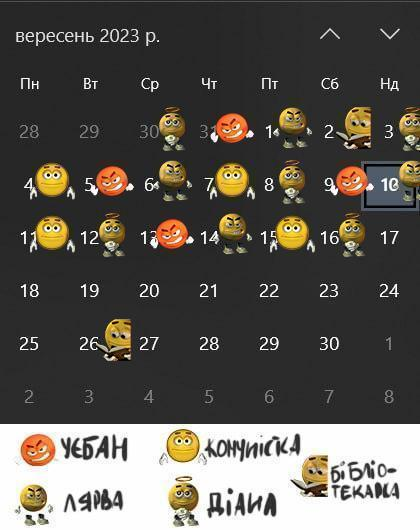
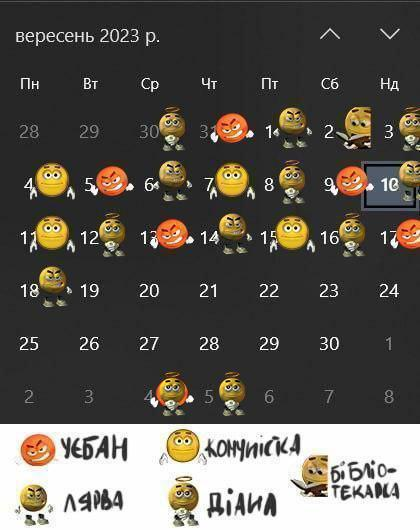
changed /update_vahta and /draw_vahta

diff --git a/core/handlers/draw_vahta.py b/core/handlers/draw_vahta.py
@@ -1,37 +1,133 @@
 from os import getenv
 from dotenv import load_dotenv
 
-from aiogram import types, Bot
-from aiogram.fsm.context import FSMContext
-from core.utils.statesdrawvahta import StatesDrawVahta
-
 from pillow_bot.helpers import pillow_draw
 
-
+from aiogram import F, Router
+from aiogram.filters import Command
+from aiogram.fsm.context import FSMContext
+from aiogram.fsm.state import State, StatesGroup
+from aiogram.types import (
+    KeyboardButton,
+    Message,
+    ReplyKeyboardMarkup,
+    ReplyKeyboardRemove,
+)
 
 load_dotenv()
 ADMIN_ID = getenv("ADMIN_ID")
 
+draw_vahta_router = Router()
 
-async def get_cell(message: types.Message, state: FSMContext):
+
+class StatesDrawVahta(StatesGroup):
+    GET_CHAR = State()
+    GET_ROW = State()
+    GET_COLUMN = State()
+
+
+@draw_vahta_router.message(Command("draw_vahta"))
+async def command_start(message: Message, state: FSMContext) -> None:
     if message.from_user.id == int(ADMIN_ID):
-        await message.answer("Choose a char from\n biblio, commie, diana, eblan, lyarva")
         await state.set_state(StatesDrawVahta.GET_CHAR)
+        await message.answer(
+            "Pick a characher or type /cancel to cancel.",
+                reply_markup=ReplyKeyboardMarkup(
+                keyboard=[
+                    [
+                        KeyboardButton(text="biblio"),
+                        KeyboardButton(text="commie"),
+                        KeyboardButton(text="diana"),
+                        KeyboardButton(text="eblan"),
+                        KeyboardButton(text="lyarva"),
+                    ]
+                ],
+                resize_keyboard=True,
+            ),
+        )
     else:
-         await message.answer("You are not authorized.")
+        await message.answer("You are not authorized.")
 
-async def get_char(message: types.Message, state: FSMContext):
-    await message.answer(f"Great. Char: {message.text}\n Now choose a row:")
-    await state.update_data(char=message.text)
+
+@draw_vahta_router.message(Command("cancel"))
+@draw_vahta_router.message(F.text.casefold() == "cancel")
+async def cancel_handler(message: Message, state: FSMContext) -> None:
+    """
+    Allow user to cancel any action
+    """
+    current_state = await state.get_state()
+    if current_state is None:
+        return
+
+    await state.clear()
+    await message.answer(
+        "/draw_vahta is cancelled.",
+        reply_markup=ReplyKeyboardRemove(),
+    )
+
+chars = ("biblio", "commie", "diana", "eblan", "lyarva")
+@draw_vahta_router.message(StatesDrawVahta.GET_CHAR, F.text.casefold().in_(chars))
+async def process_chars(message: Message, state: FSMContext) -> None:
     await state.set_state(StatesDrawVahta.GET_ROW)
+    await state.update_data(char=message.text)
+    await message.answer(
+        f"OK, you picked {message.text}. Now choose a row:",
+        reply_markup=ReplyKeyboardMarkup(
+            keyboard=[
+                [
+                    KeyboardButton(text="1"),
+                    KeyboardButton(text="2"),
+                    KeyboardButton(text="3"),
+                    KeyboardButton(text="4"),
+                    KeyboardButton(text="5"),
+                    KeyboardButton(text="6"),
+                ]
+            ],
+            resize_keyboard=True,
+        ),
+    )
 
-async def get_row(message: types.Message, state: FSMContext):
-     await message.answer(f"OK. Row: {message.text}\nNow choose a column:")
-     await state.update_data(row=message.text)
-     await state.set_state(StatesDrawVahta.GET_COLUMN)
+
+@draw_vahta_router.message(StatesDrawVahta.GET_CHAR)
+async def process_unknown_char(message: Message) -> None:
+    await message.reply("WTF is that?! Choose from options below or type /cancel")
+
+
+rows = ("1", "2", "3", "4", "5", "6")
+@draw_vahta_router.message(StatesDrawVahta.GET_ROW, F.text.in_(rows))
+async def process_row(message: Message, state: FSMContext) -> None:
+    await state.set_state(StatesDrawVahta.GET_COLUMN)
+    await state.update_data(row=message.text)
+    await message.answer(
+        f"OK, you picked {message.text} row. Now choose a column:",
+        reply_markup=ReplyKeyboardMarkup(
+            keyboard=[
+                [
+                    KeyboardButton(text="1"),
+                    KeyboardButton(text="2"),
+                    KeyboardButton(text="3"),
+                    KeyboardButton(text="4"),
+                    KeyboardButton(text="5"),
+                    KeyboardButton(text="6"),
+                    KeyboardButton(text="7")
+                ]
+            ],
+            resize_keyboard=True,
+        ),
+    )
+
+@draw_vahta_router.message(StatesDrawVahta.GET_ROW)
+async def process_unknown_row(message: Message) -> None:
+    await message.reply("WTF is that?! Choose from options below or type /cancel")
+
+columns = ("1", "2", "3", "4", "5", "6", "7")
+@draw_vahta_router.message(StatesDrawVahta.GET_COLUMN, F.text.in_(columns))
+async def process_row(message: Message, state: FSMContext) -> None:
+    await message.answer(
+        f"OK, you picked {message.text} column. Drawing..",
+        reply_markup=ReplyKeyboardRemove()
+        )
     
-async def draw(message: types.Message, state: FSMContext):
-    await message.answer(f"Got it. Column: {message.text}")
     context_data = await state.get_data()
     char = context_data.get("char")
     row = int(context_data.get("row"))
@@ -39,4 +135,11 @@ async def draw(message: types.Message, state: FSMContext):
     await pillow_draw(char, row, column)
     await message.answer("Done. Use /vahta to check")
     await state.clear()
+
+
+
+@draw_vahta_router.message(StatesDrawVahta.GET_COLUMN)
+async def process_unknown_column(message: Message) -> None:
+    await message.reply("WTF is that?! Choose from options below or type /cancel")
+
 

diff --git a/main.py b/main.py
@@ -17,10 +17,11 @@ from core.handlers.start import start_router
 from core.handlers.alerts import alerts_router
 from core.handlers.faq import faq_router
 from core.handlers.vahta import vahta_router
-from core.handlers.cmd_stickers import bunt_sticker_router
-from core.handlers import update_vahta, draw_vahta, msg_echo
+from core.handlers.draw_vahta import draw_vahta_router
+from core.handlers.cmd_stickers import bunt_sticker_router, rusoriz_sticker_router
+from core.handlers import update_vahta, msg_echo
 from core.utils.statesvahta import StatesVahta
-from core.utils.statesdrawvahta import StatesDrawVahta
+# from core.utils.statesdrawvahta import StatesDrawVahta
 from core.utils.statesmsgecho import StatesMsgEcho
 
 
@@ -56,10 +57,10 @@ def main() -> None:
     dp.message.register(update_vahta.get_photo, Command(commands="update_vahta"))
     dp.message.register(update_vahta.save_photo, StatesVahta.GET_PHOTO)
 
-    dp.message.register(draw_vahta.get_cell, Command(commands="draw_vahta"))
-    dp.message.register(draw_vahta.get_char, StatesDrawVahta.GET_CHAR)
-    dp.message.register(draw_vahta.get_row, StatesDrawVahta.GET_ROW)
-    dp.message.register(draw_vahta.draw, StatesDrawVahta.GET_COLUMN)
+    # dp.message.register(draw_vahta.get_cell, Command(commands="draw_vahta"))
+    # dp.message.register(draw_vahta.get_char, StatesDrawVahta.GET_CHAR)
+    # dp.message.register(draw_vahta.get_row, StatesDrawVahta.GET_ROW)
+    # dp.message.register(draw_vahta.draw, StatesDrawVahta.GET_COLUMN)
 
     dp.message.register(msg_echo.get_msg, Command(commands="msg_echo"))
     dp.message.register(msg_echo.msg_echo, StatesMsgEcho.GET_MSG)
@@ -72,8 +73,9 @@ def main() -> None:
     dp.include_router(alerts_router)
     dp.include_router(faq_router)
     dp.include_router(vahta_router)
+    dp.include_router(draw_vahta_router)
     dp.include_router(bunt_sticker_router)
-    
+    dp.include_router(rusoriz_sticker_router)
     
     
 

diff --git a/core/handlers/update_vahta.py b/core/handlers/update_vahta.py
@@ -2,6 +2,7 @@ from os import getenv
 from dotenv import load_dotenv
 
 from aiogram import types, Bot
+from aiogram.filters import Command
 from aiogram.fsm.context import FSMContext
 from core.utils.statesvahta import StatesVahta
 
@@ -12,13 +13,23 @@ ADMIN_ID = getenv("ADMIN_ID")
 
 async def get_photo(message: types.Message, state: FSMContext):
     if message.from_user.id == int(ADMIN_ID):
-        await message.answer("Send a photo for vahta bg:")
+        await message.answer("Send a photo for vahta bg or /cancel to cancel.")
         await state.set_state(StatesVahta.GET_PHOTO)
     else:
          await message.answer("You are not authorized.")
 
 async def save_photo(message: types.Message, state: FSMContext, bot: Bot):
         if message.from_user.id == int(ADMIN_ID):
+            current_state = await state.get_state()
+        
+            if message.text in ("/cancel", "cancel"):
+                if current_state is None:
+                    return
+
+                await state.clear()
+                await message.answer("/update_vahta is canceled.")
+                return
+
             fileID = message.photo[-1].file_id
             file_info = await bot.get_file(fileID)
             downloaded_file = await bot.download_file(file_info.file_path)
@@ -28,3 +39,4 @@ async def save_photo(message: types.Message, state: FSMContext, bot: Bot):
 
             await message.answer("Done. Use /vahta to check")
             await state.clear()
+

diff --git a/core/handlers/cmd_stickers.py b/core/handlers/cmd_stickers.py
@@ -9,3 +9,8 @@ async def bunt_sticker(message: types.Message):
[1 lines of base64/hex data omitted]
 
 
+@rusoriz_sticker_router.message(Command("rusoriz"))
+async def rusorizt_sticker(message: types.Message):
[1 lines of base64/hex data omitted]
+
+
